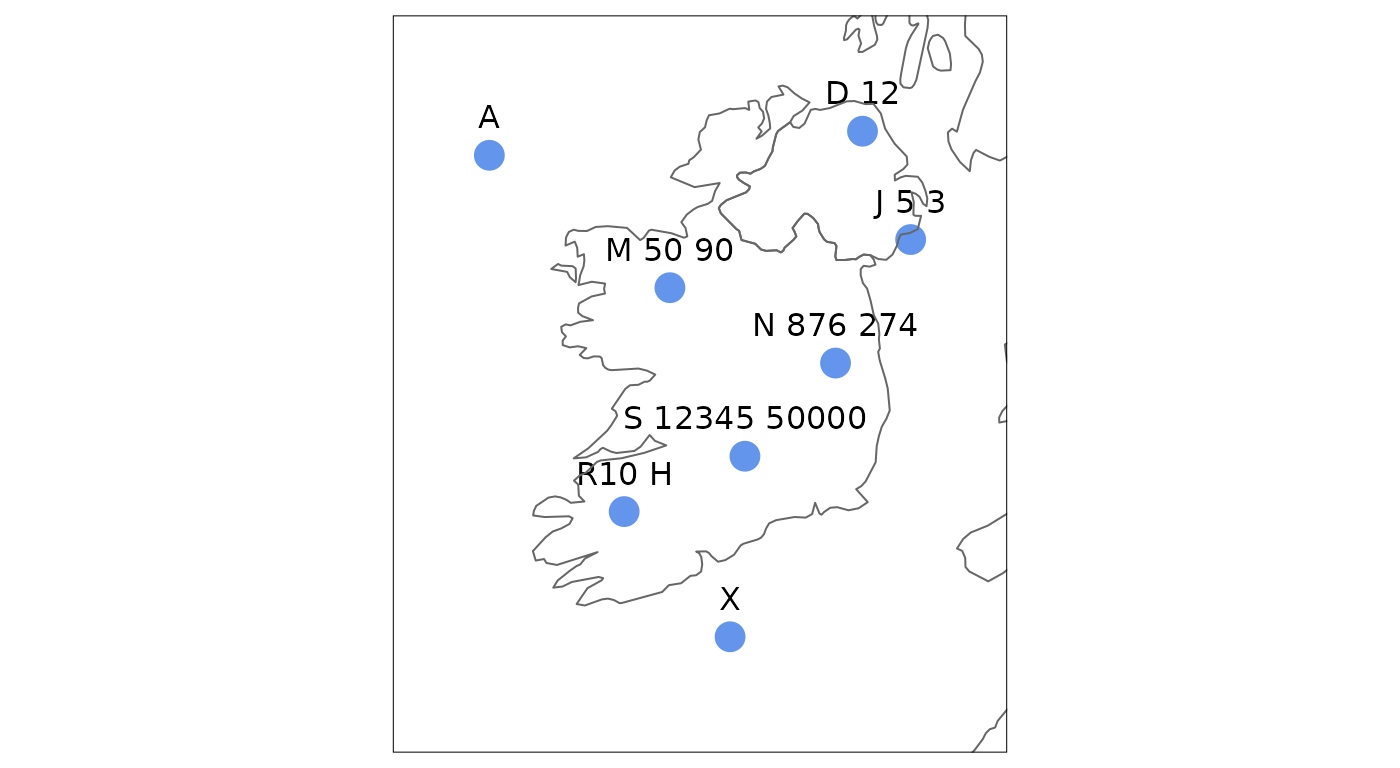
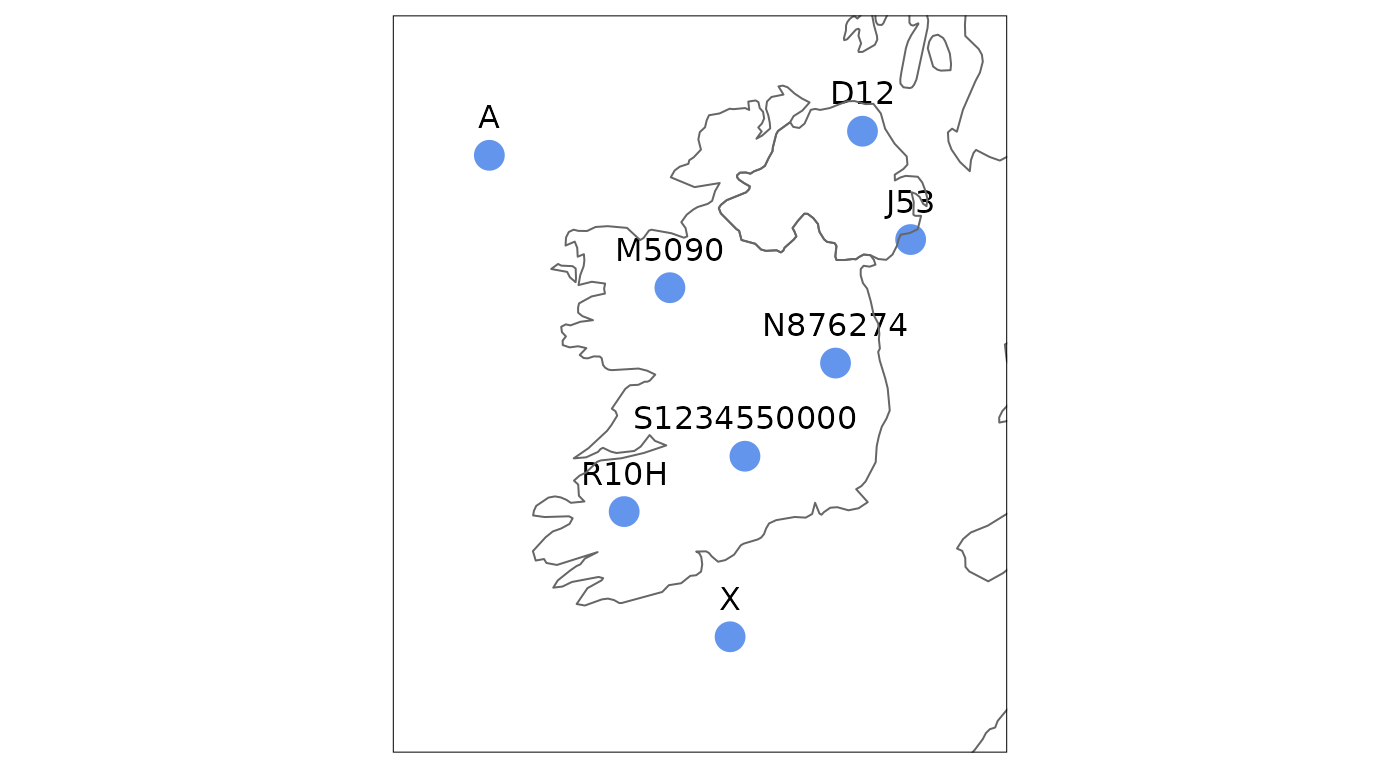
Deploying to gh-pages from @ digitalnature-ie/igr@cd649730ab86eab5c1883056373c6656a17941a0 🚀

diff --git a/articles/igr.html b/articles/igr.html
@@ -41,6 +41,7 @@
   <button class="nav-link dropdown-toggle" type="button" id="dropdown-news" data-bs-toggle="dropdown" aria-expanded="false" aria-haspopup="true">News</button>
   <ul class="dropdown-menu" aria-labelledby="dropdown-news">
 <li><h6 class="dropdown-header" data-toc-skip>Releases</h6></li>
+    <li><a class="external-link dropdown-item" href="https://digitalnature.ie/2024/08/igr-0-2-0-including-tetrad-irish-grid-reference-support/">igr 0.2.0</a></li>
     <li><a class="external-link dropdown-item" href="https://digitalnature.ie/2024/07/igr-an-r-package-supporting-irish-grid-references/">igr 0.1.1</a></li>
     <li><hr class="dropdown-divider"></li>
     <li><a class="dropdown-item" href="../news/index.html">Changelog</a></li>
@@ -82,36 +83,39 @@ the Ordnance Survey Ireland (now <a href="https://www.tailte.ie" class="external
 Éireann</a>) and <a href="https://www.nidirect.gov.uk/campaigns/ordnance-survey-of-northern-ireland" class="external-link">Ordnance
 Survey of Northern Ireland</a>, locations within the Irish Grid are
 defined by an X and Y coordinate.</p>
-<p>Irish grid references are an alternative way of recording locations
-on the Irish Grid. An Irish grid reference consists of a letter,
-optionally followed by an easting and northing. The letter (e.g. “N”)
-refers to a particular 100 km square on the Irish Grid. There are 25
-such 100 km squares - the letter “I” is skipped. The easting and
-northing refer to a square within the 100 km square. An Irish grid
-reference with a 1-digit easting and northing (e.g. “N85”) refers to a
-particular 10 km square wtihin the 100 km square “N”. A 5-digit easting
-and northing (e.g. “N 12345 67890”) refers to a particular 1 m square.
-The tetrad form of Irish grid reference consists of a 10 km square
-reference followed by a letter (e.g. “N85R”). This refers to a
-particular 2 km square.</p>
+<p>Irish grid references are an alternative way of referring to
+locations on the Irish Grid. An Irish grid reference consists of a
+letter, optionally followed by an easting, northing and possibly a final
+letter. The first letter (e.g. “N”) refers to a particular 100 km square
+on the Irish Grid. There are 25 such 100 km squares - the letter “I” is
+skipped. The easting and northing refer to a square within the 100 km
+square. An Irish grid reference with a 1-digit easting and northing
+(e.g. “N16”) refers to a particular 10 km square wtihin the 100 km
+square “N”. A 5-digit easting and northing (e.g. “N 12345 67890”) refers
+to a particular 1 m square. The tetrad form of Irish grid reference
+consists of a 10 km square reference followed by a letter (e.g. “N16K”).
+This refers to a particular 2 km square. There are 25 tetrads in a 10 km
+square - the letter “O” is not used.</p>
 <p>There are many R packages facilitating <a href="https://cran.r-project.org/view=Spatial" class="external-link">spatial data analysis and
 visualisation</a>. The igr package is designed to simplify using
 datasets containing Irish grid references in R. It translates Irish grid
-references to and from Irish Grid coordinates or sf objects that other R
-packages can work with. The igr package supports precisions of Irish
-grid reference from 1 m to 100 km including tetrads, mixes of precision,
-and Irish grid references with or without whitespace between the grid
-reference components.</p>
+references to and from Irish Grid coordinates (X and Y), or to and from
+<a href="https://r-spatial.github.io/sf/" class="external-link">sf</a> (simple feature)
+objects that other R packages can work with. The igr package supports
+precisions of Irish grid reference from 1 m to 100 km including tetrads,
+mixes of precision, and Irish grid references with or without whitespace
+between the letters, eastings and northings.</p>
 <p>When converting Irish grid references to point locations (using
 <code><a href="../reference/igr_to_ig.html">igr_to_ig()</a></code>, or <code><a href="../reference/st_igr_as_sf.html">st_igr_as_sf()</a></code> with the
 default <code>polygons=FALSE</code>), the south west corners of the
-relevant Irish Grid squares are returned by default. When converting to
-polygons (using <code><a href="../reference/st_igr_as_sf.html">st_igr_as_sf()</a></code> with
-<code>polygons=TRUE</code>), the polygons returned span the entire
-square of each grid reference.</p>
+relevant Irish Grid squares are returned by default. The centroids of
+the Irish Grid squares can be returned by using
+<code>centroids=TRUE</code>. When converting to polygons (using
+<code><a href="../reference/st_igr_as_sf.html">st_igr_as_sf()</a></code> with <code>polygons=TRUE</code>), the size
+of each polygon is precision-aware.</p>
 <p>The functions <code><a href="../reference/st_igr_as_sf.html">st_igr_as_sf()</a></code> and
-<code><a href="../reference/st_irishgridrefs.html">st_irishgridrefs()</a></code> convert to and from <a href="https://r-spatial.github.io/sf/" class="external-link">sf</a> (simple feature) objects
-in any coordinate reference system.</p>
+<code><a href="../reference/st_irishgridrefs.html">st_irishgridrefs()</a></code> convert to and from sf objects in any
+coordinate reference system.</p>
 </div>
 <div class="section level2">
 <h2 id="installation">Installation<a class="anchor" aria-label="anchor" href="#installation"></a>
@@ -173,9 +177,9 @@ returned:</p>
 <p>The Irish grid references may have spaces between the grid reference
 components:</p>
 <div class="sourceCode" id="cb7"><pre class="downlit sourceCode r">
-<code class="sourceCode R"><span><span class="va">igrs</span> <span class="op">&lt;-</span> <span class="fu"><a href="https://rdrr.io/r/base/c.html" class="external-link">c</a></span><span class="op">(</span><span class="st">"A"</span>, <span class="st">"D 12"</span>, <span class="st">"J 5 3"</span>, <span class="st">"M 50 90"</span>, <span class="st">"N 876 274"</span>, <span class="st">"S 12345 50000"</span>, <span class="st">"R10 H"</span>, <span class="st">"X"</span><span class="op">)</span></span>
+<code class="sourceCode R"><span><span class="va">ws_igrs</span> <span class="op">&lt;-</span> <span class="fu"><a href="https://rdrr.io/r/base/c.html" class="external-link">c</a></span><span class="op">(</span><span class="st">"A"</span>, <span class="st">"D 12"</span>, <span class="st">"J 5 3"</span>, <span class="st">"M 50 90"</span>, <span class="st">"N 876 274"</span>, <span class="st">"S 12345 50000"</span>, <span class="st">"R10 H"</span>, <span class="st">"X"</span><span class="op">)</span></span>
 <span></span>
-<span><span class="fu"><a href="../reference/igr_to_ig.html">igr_to_ig</a></span><span class="op">(</span><span class="va">igrs</span><span class="op">)</span></span>
+<span><span class="fu"><a href="../reference/igr_to_ig.html">igr_to_ig</a></span><span class="op">(</span><span class="va">ws_igrs</span><span class="op">)</span></span>
 <span><span class="co">#&gt; $x</span></span>
 <span><span class="co">#&gt; [1]      0 310000 350000 150000 287600 212345 112000 200000</span></span>
 <span><span class="co">#&gt; </span></span>
@@ -209,15 +213,15 @@ reference, and the coordinate reference system is Irish Grid (<a href="https://e
 <span><span class="co">#&gt; Dimension:     XY</span></span>
 <span><span class="co">#&gt; Bounding box:  xmin: 0 ymin: 0 xmax: 350000 ymax: 420000</span></span>
 <span><span class="co">#&gt; Projected CRS: TM75 / Irish Grid</span></span>
-<span><span class="co">#&gt;             igr              geometry</span></span>
-<span><span class="co">#&gt; 1             A       POINT (0 4e+05)</span></span>
-<span><span class="co">#&gt; 2          D 12 POINT (310000 420000)</span></span>
-<span><span class="co">#&gt; 3         J 5 3 POINT (350000 330000)</span></span>
-<span><span class="co">#&gt; 4       M 50 90 POINT (150000 290000)</span></span>
-<span><span class="co">#&gt; 5     N 876 274 POINT (287600 227400)</span></span>
-<span><span class="co">#&gt; 6 S 12345 50000 POINT (212345 150000)</span></span>
-<span><span class="co">#&gt; 7         R10 H POINT (112000 104000)</span></span>
-<span><span class="co">#&gt; 8             X       POINT (2e+05 0)</span></span></code></pre></div>
+<span><span class="co">#&gt;           igr              geometry</span></span>
+<span><span class="co">#&gt; 1           A       POINT (0 4e+05)</span></span>
+<span><span class="co">#&gt; 2         D12 POINT (310000 420000)</span></span>
+<span><span class="co">#&gt; 3         J53 POINT (350000 330000)</span></span>
+<span><span class="co">#&gt; 4       M5090 POINT (150000 290000)</span></span>
+<span><span class="co">#&gt; 5     N876274 POINT (287600 227400)</span></span>
+<span><span class="co">#&gt; 6 S1234550000 POINT (212345 150000)</span></span>
+<span><span class="co">#&gt; 7        R10H POINT (112000 104000)</span></span>
+<span><span class="co">#&gt; 8           X       POINT (2e+05 0)</span></span></code></pre></div>
 <p>These points can be plotted by the <a href="https://r-tmap.github.io/tmap/" class="external-link">tmap</a> package. A basic outline
 of Ireland and the United Kingdom can be retrieved from the <a href="https://cran.r-project.org/package=maps" class="external-link">maps</a> package.</p>
 <div class="sourceCode" id="cb10"><pre class="downlit sourceCode r">
@@ -264,15 +268,15 @@ polygons with different sizes.</p>
 <span><span class="co">#&gt; Dimension:     XY</span></span>
 <span><span class="co">#&gt; Bounding box:  xmin: 0 ymin: 0 xmax: 360000 ymax: 5e+05</span></span>
 <span><span class="co">#&gt; Projected CRS: TM75 / Irish Grid</span></span>
-<span><span class="co">#&gt;             igr                       geometry</span></span>
-<span><span class="co">#&gt; 1             A POLYGON ((1e+05 5e+05, 1e+0...</span></span>
-<span><span class="co">#&gt; 2          D 12 POLYGON ((320000 430000, 32...</span></span>
-<span><span class="co">#&gt; 3         J 5 3 POLYGON ((360000 340000, 36...</span></span>
-<span><span class="co">#&gt; 4       M 50 90 POLYGON ((151000 291000, 15...</span></span>
-<span><span class="co">#&gt; 5     N 876 274 POLYGON ((287700 227500, 28...</span></span>
-<span><span class="co">#&gt; 6 S 12345 50000 POLYGON ((212346 150001, 21...</span></span>
-<span><span class="co">#&gt; 7         R10 H POLYGON ((114000 106000, 11...</span></span>
-<span><span class="co">#&gt; 8             X POLYGON ((3e+05 1e+05, 3e+0...</span></span></code></pre></div>
+<span><span class="co">#&gt;           igr                       geometry</span></span>
+<span><span class="co">#&gt; 1           A POLYGON ((1e+05 5e+05, 1e+0...</span></span>
+<span><span class="co">#&gt; 2         D12 POLYGON ((320000 430000, 32...</span></span>
+<span><span class="co">#&gt; 3         J53 POLYGON ((360000 340000, 36...</span></span>
+<span><span class="co">#&gt; 4       M5090 POLYGON ((151000 291000, 15...</span></span>
+<span><span class="co">#&gt; 5     N876274 POLYGON ((287700 227500, 28...</span></span>
+<span><span class="co">#&gt; 6 S1234550000 POLYGON ((212346 150001, 21...</span></span>
+<span><span class="co">#&gt; 7        R10H POLYGON ((114000 106000, 11...</span></span>
+<span><span class="co">#&gt; 8           X POLYGON ((3e+05 1e+05, 3e+0...</span></span></code></pre></div>
 <p>Plotting these polygons:</p>
 <div class="sourceCode" id="cb12"><pre class="downlit sourceCode r">
 <code class="sourceCode R"><span><span class="kw">if</span> <span class="op">(</span><span class="fu"><a href="https://rdrr.io/r/base/exists.html" class="external-link">exists</a></span><span class="op">(</span><span class="st">"ie_uk_sf"</span><span class="op">)</span><span class="op">)</span> <span class="op">{</span></span>
@@ -318,20 +322,20 @@ invalid Irish grid references can be filtered out using
 <code class="sourceCode R"><span><span class="va">some_invalid_df</span> <span class="op">&lt;-</span> <span class="fu"><a href="https://rdrr.io/r/base/data.frame.html" class="external-link">data.frame</a></span><span class="op">(</span>igr <span class="op">=</span> <span class="fu"><a href="https://rdrr.io/r/base/c.html" class="external-link">c</a></span><span class="op">(</span><span class="va">igrs</span>, <span class="st">"BAD"</span>, <span class="st">"I"</span>, <span class="st">""</span>, <span class="st">"123"</span>, <span class="st">"N1"</span><span class="op">)</span><span class="op">)</span></span>
 <span></span>
 <span><span class="va">some_invalid_df</span></span>
-<span><span class="co">#&gt;              igr</span></span>
-<span><span class="co">#&gt; 1              A</span></span>
-<span><span class="co">#&gt; 2           D 12</span></span>
-<span><span class="co">#&gt; 3          J 5 3</span></span>
-<span><span class="co">#&gt; 4        M 50 90</span></span>
-<span><span class="co">#&gt; 5      N 876 274</span></span>
-<span><span class="co">#&gt; 6  S 12345 50000</span></span>
-<span><span class="co">#&gt; 7          R10 H</span></span>
-<span><span class="co">#&gt; 8              X</span></span>
-<span><span class="co">#&gt; 9            BAD</span></span>
-<span><span class="co">#&gt; 10             I</span></span>
-<span><span class="co">#&gt; 11              </span></span>
-<span><span class="co">#&gt; 12           123</span></span>
-<span><span class="co">#&gt; 13            N1</span></span>
+<span><span class="co">#&gt;            igr</span></span>
+<span><span class="co">#&gt; 1            A</span></span>
+<span><span class="co">#&gt; 2          D12</span></span>
+<span><span class="co">#&gt; 3          J53</span></span>
+<span><span class="co">#&gt; 4        M5090</span></span>
+<span><span class="co">#&gt; 5      N876274</span></span>
+<span><span class="co">#&gt; 6  S1234550000</span></span>
+<span><span class="co">#&gt; 7         R10H</span></span>
+<span><span class="co">#&gt; 8            X</span></span>
+<span><span class="co">#&gt; 9          BAD</span></span>
+<span><span class="co">#&gt; 10           I</span></span>
+<span><span class="co">#&gt; 11            </span></span>
+<span><span class="co">#&gt; 12         123</span></span>
+<span><span class="co">#&gt; 13          N1</span></span>
 <span><span class="va">valid_sf</span> <span class="op">&lt;-</span> <span class="fu"><a href="../reference/st_igr_as_sf.html">st_igr_as_sf</a></span><span class="op">(</span><span class="va">some_invalid_df</span><span class="op">[</span><span class="fu"><a href="../reference/igr_is_valid.html">igr_is_valid</a></span><span class="op">(</span><span class="va">some_invalid_df</span><span class="op">$</span><span class="va">igr</span><span class="op">)</span>, , drop <span class="op">=</span> <span class="cn">FALSE</span><span class="op">]</span><span class="op">)</span></span>
 <span></span>
 <span><span class="va">valid_sf</span></span>
@@ -340,15 +344,15 @@ invalid Irish grid references can be filtered out using
 <span><span class="co">#&gt; Dimension:     XY</span></span>
 <span><span class="co">#&gt; Bounding box:  xmin: 0 ymin: 0 xmax: 350000 ymax: 420000</span></span>
 <span><span class="co">#&gt; Projected CRS: TM75 / Irish Grid</span></span>
-<span><span class="co">#&gt;             igr              geometry</span></span>
-<span><span class="co">#&gt; 1             A       POINT (0 4e+05)</span></span>
-<span><span class="co">#&gt; 2          D 12 POINT (310000 420000)</span></span>
-<span><span class="co">#&gt; 3         J 5 3 POINT (350000 330000)</span></span>
-<span><span class="co">#&gt; 4       M 50 90 POINT (150000 290000)</span></span>
-<span><span class="co">#&gt; 5     N 876 274 POINT (287600 227400)</span></span>
-<span><span class="co">#&gt; 6 S 12345 50000 POINT (212345 150000)</span></span>
-<span><span class="co">#&gt; 7         R10 H POINT (112000 104000)</span></span>
-<span><span class="co">#&gt; 8             X       POINT (2e+05 0)</span></span></code></pre></div>
+<span><span class="co">#&gt;           igr              geometry</span></span>
+<span><span class="co">#&gt; 1           A       POINT (0 4e+05)</span></span>
+<span><span class="co">#&gt; 2         D12 POINT (310000 420000)</span></span>
+<span><span class="co">#&gt; 3         J53 POINT (350000 330000)</span></span>
+<span><span class="co">#&gt; 4       M5090 POINT (150000 290000)</span></span>
+<span><span class="co">#&gt; 5     N876274 POINT (287600 227400)</span></span>
+<span><span class="co">#&gt; 6 S1234550000 POINT (212345 150000)</span></span>
+<span><span class="co">#&gt; 7        R10H POINT (112000 104000)</span></span>
+<span><span class="co">#&gt; 8           X       POINT (2e+05 0)</span></span></code></pre></div>
 <p>In tidy r this can be written as:</p>
 <div class="sourceCode" id="cb14"><pre class="downlit sourceCode r">
 <code class="sourceCode R"><span><span class="va">valid_sf</span> <span class="op">&lt;-</span> <span class="va">some_invalid_df</span> <span class="op">|&gt;</span></span>

diff --git a/index.html b/index.html
@@ -44,6 +44,7 @@
   <button class="nav-link dropdown-toggle" type="button" id="dropdown-news" data-bs-toggle="dropdown" aria-expanded="false" aria-haspopup="true">News</button>
   <ul class="dropdown-menu" aria-labelledby="dropdown-news">
 <li><h6 class="dropdown-header" data-toc-skip>Releases</h6></li>
+    <li><a class="external-link dropdown-item" href="https://digitalnature.ie/2024/08/igr-0-2-0-including-tetrad-irish-grid-reference-support/">igr 0.2.0</a></li>
     <li><a class="external-link dropdown-item" href="https://digitalnature.ie/2024/07/igr-an-r-package-supporting-irish-grid-references/">igr 0.1.1</a></li>
     <li><hr class="dropdown-divider"></li>
     <li><a class="dropdown-item" href="news/index.html">Changelog</a></li>
@@ -70,10 +71,10 @@
 <!-- badges: start -->
 
 <p>Convert between Irish grid references and Irish Grid coordinates or an sf object.</p>
-<p>An Irish grid reference consists of a letter, optionally followed by an easting and northing, and possibly a final letter. Each Irish grid reference refers to a square on the Irish Grid (<a href="https://epsg.io/29903" class="external-link">EPSG:29903</a>). A letter alone (e.g. “N”) refers to a particular 100 km square. An Irish grid reference with a 1-digit easting and northing (e.g. “N85”) refers to a 10 km square. A 5-digit easting and northing (e.g. “N 12345 67890”) refers to a 1 m square. The tetrad form of Irish grid reference consists of a 10 km square reference followed by a letter (e.g. “N85R”). This refers to a 2 km square.</p>
-<p>This package supports Irish grid references of 1 m, 10 m, 100 m, 1 km, 2 km, 10 km and 100 km precision. Irish grid references can be of mixed precision, and whitespace between the components of the Irish grid reference is optional.</p>
-<p>When converting Irish grid references to point locations (using <code><a href="reference/igr_to_ig.html">igr_to_ig()</a></code>, or <code><a href="reference/st_igr_as_sf.html">st_igr_as_sf()</a></code> with the default <code>polygons=FALSE</code>), the south west corners of the relevant Irish Grid squares are returned by default. When converting to polygons (using <code><a href="reference/st_igr_as_sf.html">st_igr_as_sf()</a></code> with <code>polygons=TRUE</code>), the polygons returned span the entire square of each grid reference.</p>
-<p>The functions <code><a href="reference/st_igr_as_sf.html">st_igr_as_sf()</a></code> and <code><a href="reference/st_irishgridrefs.html">st_irishgridrefs()</a></code> convert to and from <a href="https://r-spatial.github.io/sf/" class="external-link">sf</a> (simple feature) objects in any coordinate reference system.</p>
+<p>An Irish grid reference is a way of referring to a square of some size on the Irish Grid geographic coordinate system (<a href="https://epsg.io/29903" class="external-link">EPSG:29903</a>). Rather than an X and Y coordinate, an Irish grid reference consists of a letter, optionally followed by an easting, northing and possibly a final letter. The size of the square referred to - the precision of the Irish grid reference - is defined by the number of digits in the easting and northing and presence or absence of a final letter. Examples include “N” - referring to a particular 100 km square, “N16” - referring to a particular 10 km square within “N”, “N16K” - the tetrad form of grid reference referring to a particular 2 km square within “N16”, and “N 12345 67890” - referring to a particular 1 m square. Spaces between letters, easting and northing in an Irish grid reference are optional.</p>
+<p>This package supports Irish grid references of 1 m, 10 m, 100 m, 1 km, 2 km, 10 km and 100 km precision. Datasets containing a mix of precision are supported.</p>
+<p>Irish grid references can be converted to and from Irish Grid coordinates (X and Y), or to and from sf <a href="https://r-spatial.github.io/sf/" class="external-link">sf</a> (simple feature) objects in any coordinate reference system.</p>
+<p>Irish grid references can be converted to point locations or polygons. Point locations can be either the south-west corner or the centroid of each Irish grid reference. Polygons each span the entire extent of an Irish grid reference - the size of each polygon is precision-aware.</p>
 <div class="section level2">
 <h2 id="installation">Installation<a class="anchor" aria-label="anchor" href="#installation"></a>
 </h2>

diff --git a/news/index.html b/news/index.html
@@ -20,6 +20,7 @@
 <li class="active nav-item dropdown">
   <button class="nav-link dropdown-toggle" type="button" id="dropdown-news" data-bs-toggle="dropdown" aria-expanded="false" aria-haspopup="true">News</button>
   <ul class="dropdown-menu" aria-labelledby="dropdown-news"><li><h6 class="dropdown-header" data-toc-skip>Releases</h6></li>
+    <li><a class="external-link dropdown-item" href="https://digitalnature.ie/2024/08/igr-0-2-0-including-tetrad-irish-grid-reference-support/">igr 0.2.0</a></li>
     <li><a class="external-link dropdown-item" href="https://digitalnature.ie/2024/07/igr-an-r-package-supporting-irish-grid-references/">igr 0.1.1</a></li>
     <li><hr class="dropdown-divider"></li>
     <li><a class="dropdown-item" href="../news/index.html">Changelog</a></li>
@@ -39,10 +40,12 @@
     </div>
 
     <div class="section level2">
-<h2 class="pkg-version" data-toc-text="development version" id="igr-development-version">igr (development version)<a class="anchor" aria-label="anchor" href="#igr-development-version"></a></h2>
-<ul><li>Tetrad support added (2000 m precision, “DINTY” system, e.g. “N85H”).</li>
-<li>tmap 4.0.0 compatibility in README &amp; vignitte.</li>
-<li>Improved unit tests, catching of invalid parameters.</li>
+<h2 class="pkg-version" data-toc-text="0.2.0" id="igr-020">igr 0.2.0<a class="anchor" aria-label="anchor" href="#igr-020"></a></h2>
+<ul><li>All functions now support tetrads (2 km squares, also known as “DINTY” system, e.g. “N85H”) (<a href="https://github.com/digitalnature-ie/igr/issues/3" class="external-link">#3</a>).</li>
+<li>
+<code><a href="../reference/igr_to_ig.html">igr_to_ig()</a></code> and <code>st_igr_to_ig()</code> can (optionally) return centroids of Irish grid references (<a href="https://github.com/digitalnature-ie/igr/issues/8" class="external-link">#8</a>).</li>
+<li>All functions have additional hardening against invalid parameters (<a href="https://github.com/digitalnature-ie/igr/issues/5" class="external-link">#5</a>).</li>
+<li>README &amp; vignette refinements including compatibility with latest development version of tmap 4.0.0 (<a href="https://github.com/digitalnature-ie/igr/issues/4" class="external-link">#4</a>).</li>
 </ul></div>
     <div class="section level2">
 <h2 class="pkg-version" data-toc-text="0.1.1" id="igr-011">igr 0.1.1<a class="anchor" aria-label="anchor" href="#igr-011"></a></h2><p class="text-muted">CRAN release: 2024-07-27</p>

diff --git a/reference/ig_to_igr.html b/reference/ig_to_igr.html
@@ -22,6 +22,7 @@ references at the specified precision."><meta property="og:image" content="https
 <li class="nav-item dropdown">
   <button class="nav-link dropdown-toggle" type="button" id="dropdown-news" data-bs-toggle="dropdown" aria-expanded="false" aria-haspopup="true">News</button>
   <ul class="dropdown-menu" aria-labelledby="dropdown-news"><li><h6 class="dropdown-header" data-toc-skip>Releases</h6></li>
+    <li><a class="external-link dropdown-item" href="https://digitalnature.ie/2024/08/igr-0-2-0-including-tetrad-irish-grid-reference-support/">igr 0.2.0</a></li>
     <li><a class="external-link dropdown-item" href="https://digitalnature.ie/2024/07/igr-an-r-package-supporting-irish-grid-references/">igr 0.1.1</a></li>
     <li><hr class="dropdown-divider"></li>
     <li><a class="dropdown-item" href="../news/index.html">Changelog</a></li>

diff --git a/reference/igr-package.html b/reference/igr-package.html
@@ -22,6 +22,7 @@ Convert between Irish grid references and Irish Grid coordinates. Irish grid ref
 <li class="nav-item dropdown">
   <button class="nav-link dropdown-toggle" type="button" id="dropdown-news" data-bs-toggle="dropdown" aria-expanded="false" aria-haspopup="true">News</button>
   <ul class="dropdown-menu" aria-labelledby="dropdown-news"><li><h6 class="dropdown-header" data-toc-skip>Releases</h6></li>
+    <li><a class="external-link dropdown-item" href="https://digitalnature.ie/2024/08/igr-0-2-0-including-tetrad-irish-grid-reference-support/">igr 0.2.0</a></li>
     <li><a class="external-link dropdown-item" href="https://digitalnature.ie/2024/07/igr-an-r-package-supporting-irish-grid-references/">igr 0.1.1</a></li>
     <li><hr class="dropdown-divider"></li>
     <li><a class="dropdown-item" href="../news/index.html">Changelog</a></li>

diff --git a/reference/igr_to_ig.html b/reference/igr_to_ig.html
@@ -26,6 +26,7 @@ Irish grid reference in metres can be returned."><meta property="og:image" conte
 <li class="nav-item dropdown">
   <button class="nav-link dropdown-toggle" type="button" id="dropdown-news" data-bs-toggle="dropdown" aria-expanded="false" aria-haspopup="true">News</button>
   <ul class="dropdown-menu" aria-labelledby="dropdown-news"><li><h6 class="dropdown-header" data-toc-skip>Releases</h6></li>
+    <li><a class="external-link dropdown-item" href="https://digitalnature.ie/2024/08/igr-0-2-0-including-tetrad-irish-grid-reference-support/">igr 0.2.0</a></li>
     <li><a class="external-link dropdown-item" href="https://digitalnature.ie/2024/07/igr-an-r-package-supporting-irish-grid-references/">igr 0.1.1</a></li>
     <li><hr class="dropdown-divider"></li>
     <li><a class="dropdown-item" href="../news/index.html">Changelog</a></li>

diff --git a/reference/st_igr_as_sf.html b/reference/st_igr_as_sf.html
@@ -32,6 +32,7 @@ also be returned."><meta property="og:image" content="https://digitalnature-ie.g
 <li class="nav-item dropdown">
   <button class="nav-link dropdown-toggle" type="button" id="dropdown-news" data-bs-toggle="dropdown" aria-expanded="false" aria-haspopup="true">News</button>
   <ul class="dropdown-menu" aria-labelledby="dropdown-news"><li><h6 class="dropdown-header" data-toc-skip>Releases</h6></li>
+    <li><a class="external-link dropdown-item" href="https://digitalnature.ie/2024/08/igr-0-2-0-including-tetrad-irish-grid-reference-support/">igr 0.2.0</a></li>
     <li><a class="external-link dropdown-item" href="https://digitalnature.ie/2024/07/igr-an-r-package-supporting-irish-grid-references/">igr 0.1.1</a></li>
     <li><hr class="dropdown-divider"></li>
     <li><a class="dropdown-item" href="../news/index.html">Changelog</a></li>

diff --git a/reference/st_irishgridrefs.html b/reference/st_irishgridrefs.html
@@ -24,6 +24,7 @@ sf object of point geometries. Features located outside the Irish Grid
 <li class="nav-item dropdown">
   <button class="nav-link dropdown-toggle" type="button" id="dropdown-news" data-bs-toggle="dropdown" aria-expanded="false" aria-haspopup="true">News</button>
   <ul class="dropdown-menu" aria-labelledby="dropdown-news"><li><h6 class="dropdown-header" data-toc-skip>Releases</h6></li>
+    <li><a class="external-link dropdown-item" href="https://digitalnature.ie/2024/08/igr-0-2-0-including-tetrad-irish-grid-reference-support/">igr 0.2.0</a></li>
     <li><a class="external-link dropdown-item" href="https://digitalnature.ie/2024/07/igr-an-r-package-supporting-irish-grid-references/">igr 0.1.1</a></li>
     <li><hr class="dropdown-divider"></li>
     <li><a class="dropdown-item" href="../news/index.html">Changelog</a></li>

diff --git a/404.html b/404.html
@@ -42,6 +42,7 @@
   <button class="nav-link dropdown-toggle" type="button" id="dropdown-news" data-bs-toggle="dropdown" aria-expanded="false" aria-haspopup="true">News</button>
   <ul class="dropdown-menu" aria-labelledby="dropdown-news">
 <li><h6 class="dropdown-header" data-toc-skip>Releases</h6></li>
+    <li><a class="external-link dropdown-item" href="https://digitalnature.ie/2024/08/igr-0-2-0-including-tetrad-irish-grid-reference-support/">igr 0.2.0</a></li>
     <li><a class="external-link dropdown-item" href="https://digitalnature.ie/2024/07/igr-an-r-package-supporting-irish-grid-references/">igr 0.1.1</a></li>
     <li><hr class="dropdown-divider"></li>
     <li><a class="dropdown-item" href="https://digitalnature-ie.github.io/igr/news/index.html">Changelog</a></li>

diff --git a/articles/index.html b/articles/index.html
@@ -20,6 +20,7 @@
 <li class="nav-item dropdown">
   <button class="nav-link dropdown-toggle" type="button" id="dropdown-news" data-bs-toggle="dropdown" aria-expanded="false" aria-haspopup="true">News</button>
   <ul class="dropdown-menu" aria-labelledby="dropdown-news"><li><h6 class="dropdown-header" data-toc-skip>Releases</h6></li>
+    <li><a class="external-link dropdown-item" href="https://digitalnature.ie/2024/08/igr-0-2-0-including-tetrad-irish-grid-reference-support/">igr 0.2.0</a></li>
     <li><a class="external-link dropdown-item" href="https://digitalnature.ie/2024/07/igr-an-r-package-supporting-irish-grid-references/">igr 0.1.1</a></li>
     <li><hr class="dropdown-divider"></li>
     <li><a class="dropdown-item" href="../news/index.html">Changelog</a></li>

diff --git a/reference/igr_is_valid.html b/reference/igr_is_valid.html
@@ -20,6 +20,7 @@
 <li class="nav-item dropdown">
   <button class="nav-link dropdown-toggle" type="button" id="dropdown-news" data-bs-toggle="dropdown" aria-expanded="false" aria-haspopup="true">News</button>
   <ul class="dropdown-menu" aria-labelledby="dropdown-news"><li><h6 class="dropdown-header" data-toc-skip>Releases</h6></li>
+    <li><a class="external-link dropdown-item" href="https://digitalnature.ie/2024/08/igr-0-2-0-including-tetrad-irish-grid-reference-support/">igr 0.2.0</a></li>
     <li><a class="external-link dropdown-item" href="https://digitalnature.ie/2024/07/igr-an-r-package-supporting-irish-grid-references/">igr 0.1.1</a></li>
     <li><hr class="dropdown-divider"></li>
     <li><a class="dropdown-item" href="../news/index.html">Changelog</a></li>

diff --git a/reference/index.html b/reference/index.html
@@ -20,6 +20,7 @@
 <li class="nav-item dropdown">
   <button class="nav-link dropdown-toggle" type="button" id="dropdown-news" data-bs-toggle="dropdown" aria-expanded="false" aria-haspopup="true">News</button>
   <ul class="dropdown-menu" aria-labelledby="dropdown-news"><li><h6 class="dropdown-header" data-toc-skip>Releases</h6></li>
+    <li><a class="external-link dropdown-item" href="https://digitalnature.ie/2024/08/igr-0-2-0-including-tetrad-irish-grid-reference-support/">igr 0.2.0</a></li>
     <li><a class="external-link dropdown-item" href="https://digitalnature.ie/2024/07/igr-an-r-package-supporting-irish-grid-references/">igr 0.1.1</a></li>
     <li><hr class="dropdown-divider"></li>
     <li><a class="dropdown-item" href="../news/index.html">Changelog</a></li>
